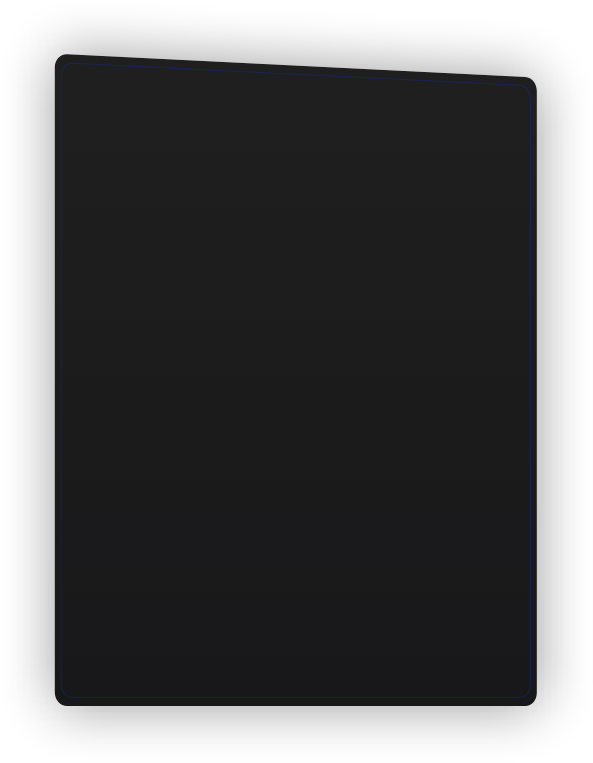
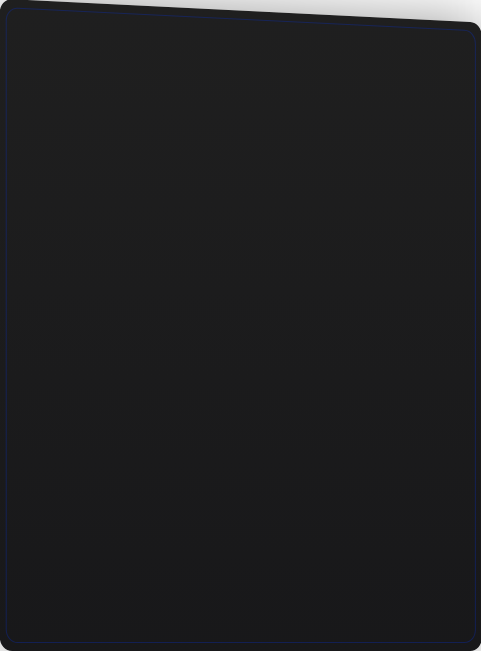
more

diff --git a/app/css/styles.min.css b/app/css/styles.min.css
@@ -1,1 +1,1 @@
[2 lines of base64/hex data omitted]

diff --git a/app/sass/main.sass b/app/sass/main.sass
@@ -331,16 +331,18 @@ ul
 .author__decs__item--accent
 	color: 	$accent
 
+.hero__signup-wrap
+
 .hero__signup
 	margin-left: auto
 	margin-right: vw(140)
 	padding: vw(56) vw(65) vw(48) vw(65)
-	width: vw(483)
-	min-height: vw(600)
+	width: vw(593)
+	min-height: vw(763)
 	text-align: center
-	background: url(../img/@2x/signup.png) no-repeat 
+	background: url(../img/@2x/signup.png) no-repeat
 	background-origin: border-box
-	background-size: contain
+	background-size: cover
 
 .hero__signup .date__bold
 	font-size: vw(37)
